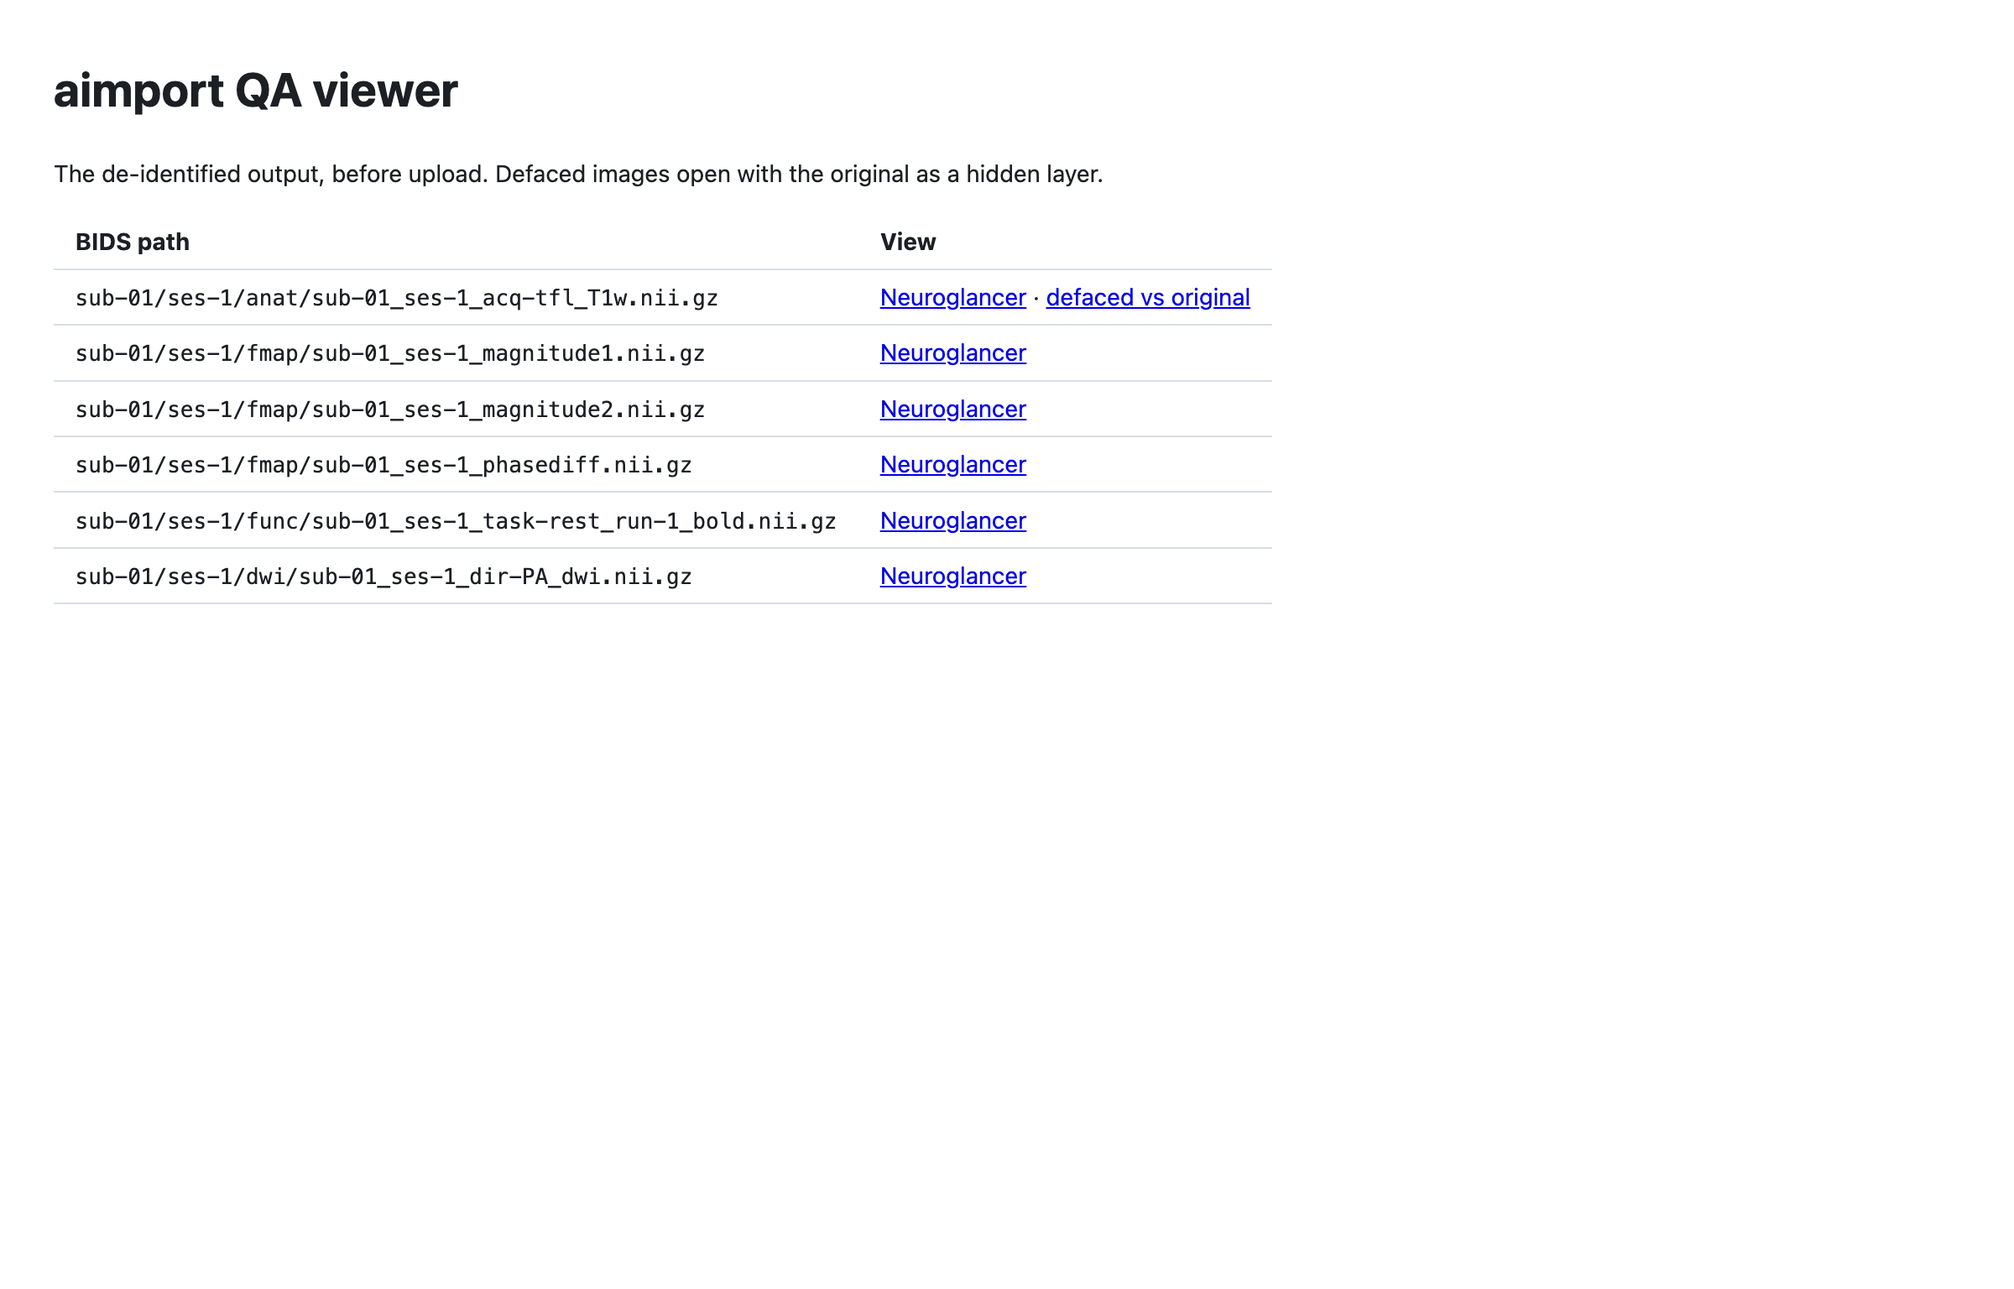
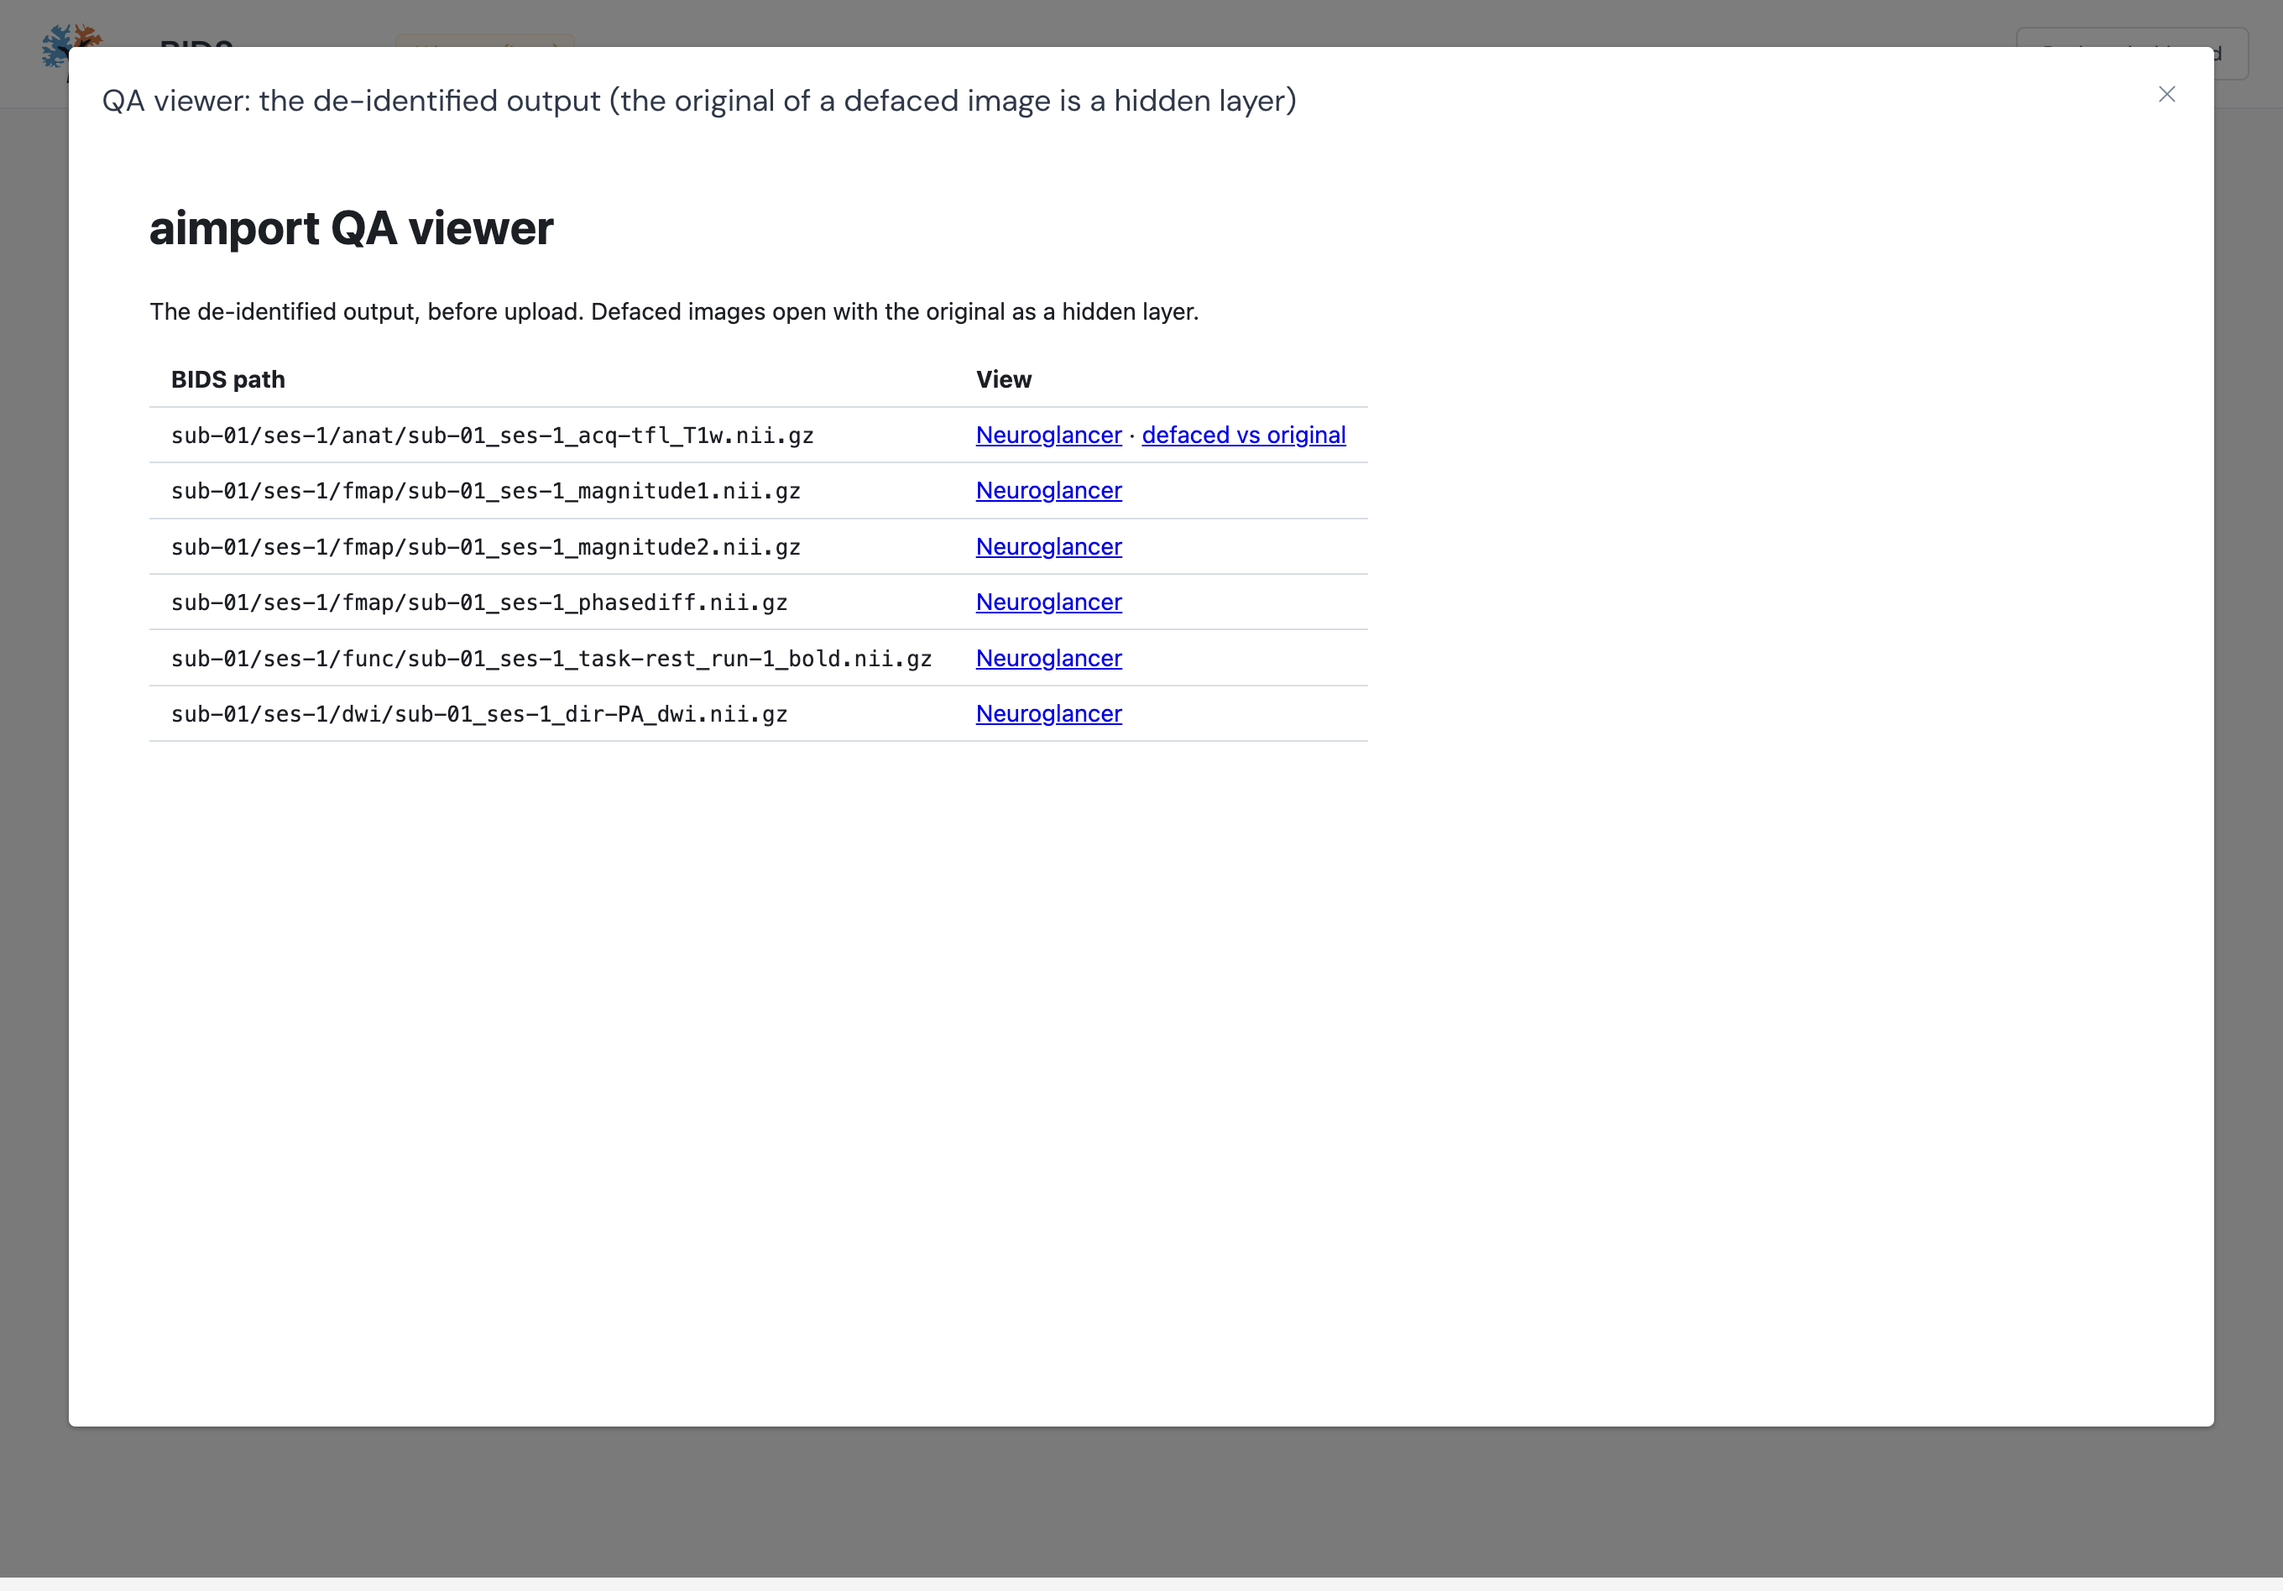
QA viewer as a modal in the main window (WebContentsView over the dialog body; one-time code, sandboxed guest, loopback origin only, no new windows); screenshots retaken

diff --git a/electron/aimport/engine.ts b/electron/aimport/engine.ts
@@ -7,7 +7,7 @@
  * is fixed at start) and tree-killed with the other children.
  */
 /* eslint-disable no-console */
-import { BrowserWindow, dialog, IpcMain, shell } from 'electron';
+import { BrowserWindow, dialog, IpcMain, shell, WebContentsView } from 'electron';
 import { spawn, ChildProcess } from 'child_process';
 import crypto from 'crypto';
 import fs from 'fs';
@@ -59,6 +59,7 @@ const pythonPath = (ctx: AimportContext): string =>
         : path.join(runtimeDir(ctx), 'python', 'bin', 'python3');
 
 export function stopAimport(): Promise<void> {
+    closeViewer();
     const current = engine;
     engine = null;
     if (!current?.proc.pid) return Promise.resolve();
@@ -173,23 +174,59 @@ async function startAimport(ctx: AimportContext, inputDir: string): Promise<Engi
     return started;
 }
 
-function openViewer(url: string): void {
+// The QA viewer is a modal inside the main window: a WebContentsView laid over the AI import page's dialog body
+// (the renderer reports that box). Sandboxed guest, no preload, no node; it stays on the engine's loopback origin.
+interface Bounds {
+    x: number;
+    y: number;
+    width: number;
+    height: number;
+}
+
+let viewer: { view: WebContentsView; host: BrowserWindow } | null = null;
+
+const toBounds = (b: Bounds): Bounds => ({
+    x: Math.max(0, Math.round(Number(b?.x) || 0)),
+    y: Math.max(0, Math.round(Number(b?.y) || 0)),
+    width: Math.max(1, Math.round(Number(b?.width) || 1)),
+    height: Math.max(1, Math.round(Number(b?.height) || 1)),
+});
+
+function closeViewer(): void {
+    const current = viewer;
+    viewer = null;
+    if (!current) return;
+    if (!current.host.isDestroyed()) current.host.contentView.removeChildView(current.view);
+    if (!current.view.webContents.isDestroyed()) current.view.webContents.close();
+}
+
+function openViewer(host: BrowserWindow, url: string, bounds: Bounds): void {
     if (!engine || !/^\/viewer\/open\?code=[0-9a-f]{32}$/.test(url)) throw new Error('bad viewer url');
+    closeViewer();
     const origin = `http://127.0.0.1:${engine.port}`;
-    const win = new BrowserWindow({
-        width: 1200,
-        height: 800,
-        title: 'AI import: QA viewer',
+    const inOrigin = (target: string): boolean => target.startsWith(`${origin}/`);
+    const view = new WebContentsView({
         webPreferences: { contextIsolation: true, nodeIntegration: false, sandbox: true },
     });
-    // the viewer stays on the engine's own origin
-    win.webContents.setWindowOpenHandler(({ url: target }) =>
-        target.startsWith(`${origin}/viewer/`) ? { action: 'allow' } : { action: 'deny' }
-    );
-    win.webContents.on('will-navigate', (event, target) => {
-        if (!target.startsWith(`${origin}/`)) event.preventDefault();
+    const wc = view.webContents;
+    // no new windows: an engine-origin link opens in the modal itself, anything else is refused
+    wc.setWindowOpenHandler(({ url: target }) => {
+        if (inOrigin(target)) void wc.loadURL(target);
+        return { action: 'deny' };
     });
-    void win.loadURL(origin + url);
+    wc.on('will-navigate', (event, target) => {
+        if (!inOrigin(target)) event.preventDefault();
+    });
+    wc.on('will-redirect', (event, target) => {
+        if (!inOrigin(target)) event.preventDefault();
+    });
+    host.contentView.addChildView(view);
+    view.setBounds(toBounds(bounds));
+    viewer = { view, host };
+    host.once('closed', () => {
+        if (viewer?.view === view) viewer = null;
+    });
+    void wc.loadURL(origin + url);
 }
 
 export function registerAimportIpc(ipcMain: IpcMain, ctx: AimportContext): void {
@@ -214,12 +251,18 @@ export function registerAimportIpc(ipcMain: IpcMain, ctx: AimportContext): void 
             return { status: 503, data: { detail: String(err) } };
         }
     });
-    ipcMain.handle('aimport:open-viewer', async () => {
+    ipcMain.handle('aimport:open-viewer', async (event, bounds: Bounds) => {
+        const host = BrowserWindow.fromWebContents(event.sender);
+        if (!host) return { ok: false, error: 'no window' };
         const res = await call('POST', '/viewer/session');
         if (res.status !== 200) return { ok: false, error: JSON.stringify(res.data) };
-        openViewer((res.data as { url: string }).url);
+        openViewer(host, (res.data as { url: string }).url, bounds);
         return { ok: true };
     });
+    ipcMain.handle('aimport:viewer-bounds', (event, bounds: Bounds) => {
+        if (viewer && viewer.host.webContents === event.sender) viewer.view.setBounds(toBounds(bounds));
+    });
+    ipcMain.handle('aimport:close-viewer', () => closeViewer());
     ipcMain.handle('aimport:show-output', async () => {
         const res = await call('GET', '/status');
         const dir = (res.data as { output_dir?: string })?.output_dir;

diff --git a/ui/src/features/aimport/AimportPage.vue b/ui/src/features/aimport/AimportPage.vue
@@ -241,12 +241,29 @@
                 </section>
             </template>
         </main>
+
+        <!-- QA viewer: a modal in this window; the main process draws the engine's viewer over the box below -->
+        <el-dialog
+            v-model="viewerOpen"
+            title="QA viewer: the de-identified output (the original of a defaced image is a hidden layer)"
+            width="94%"
+            top="3vh"
+            custom-class="aimport-viewer-dialog"
+            :close-on-click-modal="false"
+            destroy-on-close
+            @opened="viewerOpened"
+            @close="viewerClosed"
+        >
+            <div ref="viewerBox" class="aimport-viewer-box">
+                <span v-if="viewerError" class="aimport-viewer-error">{{ viewerError }}</span>
+            </div>
+        </el-dialog>
     </div>
 </template>
 
 <script lang="ts">
 import { defineComponent } from 'vue';
-import { engine, EngineError, Plan, PlanEntry, Stage, Status } from './aimportClient';
+import { Box, engine, EngineError, Plan, PlanEntry, Stage, Status } from './aimportClient';
 
 const POLL_MS = 1500;
 
@@ -265,6 +282,8 @@ export default defineComponent({
             error: '',
             timer: 0 as number,
             entityText: {} as Record<string, string>,
+            viewerOpen: false,
+            viewerError: '',
         };
     },
 
@@ -303,6 +322,8 @@ export default defineComponent({
 
     beforeUnmount() {
         window.clearTimeout(this.timer);
+        window.removeEventListener('resize', this.syncViewerBox);
+        if (this.viewerOpen) void engine.closeViewer();
     },
 
     methods: {
@@ -422,9 +443,34 @@ export default defineComponent({
             this.status = { ...this.status, stage: 'planned' };
         },
 
-        async openViewer() {
-            const res = await engine.openViewer();
-            if (!res.ok) this.fail(res.error || 'could not open the QA viewer');
+        openViewer() {
+            this.viewerError = '';
+            this.viewerOpen = true;
+        },
+
+        viewerRect(): Box | null {
+            const el = this.$refs.viewerBox as HTMLElement | undefined;
+            if (!el) return null;
+            const r = el.getBoundingClientRect();
+            return { x: r.left, y: r.top, width: r.width, height: r.height };
+        },
+
+        async viewerOpened() {
+            const box = this.viewerRect();
+            if (!box) return;
+            const res = await engine.openViewer(box);
+            if (!res.ok) this.viewerError = res.error || 'could not open the QA viewer';
+            window.addEventListener('resize', this.syncViewerBox);
+        },
+
+        syncViewerBox() {
+            const box = this.viewerRect();
+            if (box) void engine.setViewerBounds(box);
+        },
+
+        viewerClosed() {
+            window.removeEventListener('resize', this.syncViewerBox);
+            void engine.closeViewer();
         },
 
         async showOutput() {
@@ -611,6 +657,20 @@ export default defineComponent({
     color: var(--ink-3);
     font-size: 0.8rem;
     margin: 0;
+}
+.aimport-viewer-box {
+    height: 80vh;
+    background: #000;
+    border-radius: var(--el-border-radius-base);
+    display: flex;
+    align-items: center;
+    justify-content: center;
+}
+.aimport-viewer-error {
+    color: #fff;
+}
+:global(.aimport-viewer-dialog .el-dialog__body) {
+    padding: 0 16px 16px;
 }
 :deep(.aimport-row-excluded) {
     opacity: 0.55;

diff --git a/ui/src/features/aimport/aimportClient.ts b/ui/src/features/aimport/aimportClient.ts
@@ -54,11 +54,20 @@ export interface Plan {
     ancillary: { id: string; action: string; reason: string; flags: string[] }[];
 }
 
+export interface Box {
+    x: number;
+    y: number;
+    width: number;
+    height: number;
+}
+
 interface AimportBridge {
     pickFolder(): Promise<string | null>;
     start(inputDir: string): Promise<{ ok: boolean; inputDir?: string; error?: string }>;
     api(method: 'GET' | 'POST' | 'PATCH', path: string, body?: unknown): Promise<{ status: number; data: any }>;
-    openViewer(): Promise<{ ok: boolean; error?: string }>;
+    openViewer(bounds: Box): Promise<{ ok: boolean; error?: string }>;
+    setViewerBounds(bounds: Box): Promise<void>;
+    closeViewer(): Promise<void>;
     showOutput(): Promise<{ ok: boolean }>;
     stop(): Promise<void>;
 }
@@ -98,6 +107,8 @@ export const engine = {
     edit: (body: Record<string, unknown>) => call<Plan>('PATCH', '/plan', body),
     approve: (defaceMethod: string) => call<Plan>('POST', '/approve', { deface_method: defaceMethod }),
     execute: () => call('POST', '/execute'),
-    openViewer: () => bridge().openViewer(),
+    openViewer: (box: Box) => bridge().openViewer(box),
+    setViewerBounds: (box: Box) => bridge().setViewerBounds(box),
+    closeViewer: () => bridge().closeViewer(),
     showOutput: () => bridge().showOutput(),
 };

diff --git a/electron/preload/preload.ts b/electron/preload/preload.ts
@@ -13,7 +13,12 @@ contextBridge.exposeInMainWorld('aimport', {
         ipcRenderer.invoke('aimport:start', inputDir),
     api: (method: 'GET' | 'POST' | 'PATCH', path: string, body?: unknown): Promise<{ status: number; data: any }> =>
         ipcRenderer.invoke('aimport:api', method, path, body),
-    openViewer: (): Promise<{ ok: boolean; error?: string }> => ipcRenderer.invoke('aimport:open-viewer'),
+    // the QA viewer is drawn by the main process over this box of the page (a modal inside the main window)
+    openViewer: (bounds: { x: number; y: number; width: number; height: number }): Promise<{ ok: boolean; error?: string }> =>
+        ipcRenderer.invoke('aimport:open-viewer', bounds),
+    setViewerBounds: (bounds: { x: number; y: number; width: number; height: number }): Promise<void> =>
+        ipcRenderer.invoke('aimport:viewer-bounds', bounds),
+    closeViewer: (): Promise<void> => ipcRenderer.invoke('aimport:close-viewer'),
     showOutput: (): Promise<{ ok: boolean }> => ipcRenderer.invoke('aimport:show-output'),
     stop: (): Promise<void> => ipcRenderer.invoke('aimport:stop'),
 });

diff --git a/docs/aimport-electron.md b/docs/aimport-electron.md
@@ -14,8 +14,9 @@ Goal: the local, privacy-preserving AI importer (`aimport/`, from master) runs i
 both in userData. Tree-killed on quit with the API and handler. No telemetry; no model key is set, so nothing leaves the machine.
 
 **UI ↔ engine**: the token stays in the main process. The renderer calls `window.aimport.api(method, path, body)` (IPC
-proxy) for `/scan`, `/status`, `/plan`, `/approve`, `/execute`; the QA viewer opens in its own window through the
-one-time code (`/viewer/session`), never shown to the renderer. No engine logic in TypeScript.
+proxy) for `/scan`, `/status`, `/plan`, `/approve`, `/execute`. The QA viewer is a modal in the main window: a sandboxed
+`WebContentsView` laid over the dialog body, opened with the one-time code (`/viewer/session`, never shown to the renderer),
+held to the engine's loopback origin (no new windows). No engine logic in TypeScript.
 
 **What the shim changes** (to upstream as env settings in `aimport/`): ezBIDS runs as `preprocess.cjs` instead of
 `preprocess.sh`; staging copies the input (APFS clones on mac, no extra disk) instead of `cp -rs`, since nothing mounts it
